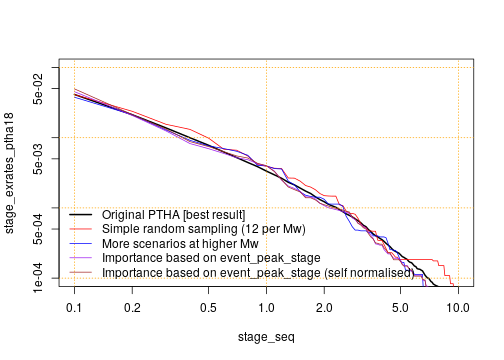
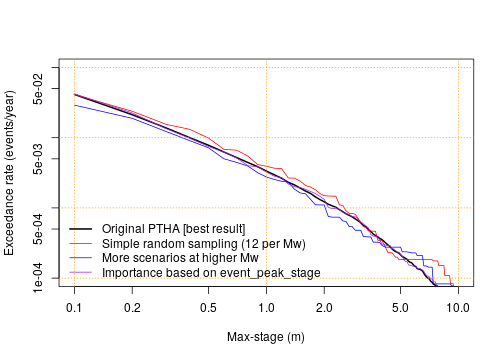
tutorial updates

diff --git a/ptha_access/example_event_access_scripts/random_scenario_sampling/random_scenario_sampling.md b/ptha_access/example_event_access_scripts/random_scenario_sampling/random_scenario_sampling.md
@@ -63,7 +63,10 @@ Our simplest random scenario sampling algorithm proceeds as follows
 * Group the scenarios by magnitude
 * For each magnitude, sample a given number of scenarios with replacement, with the chance of sampling each scenario proportional to its conditional probability.
 
-The function which does this only requires knowledge of the scenario magnitudes, and the scenario rates. From these variables the function will internally compute scenario conditional probability for each unique magnitude value (which ranges from 7.2, 7.3, ... 9.6, 9.7, 9.8 in PTHA18). We also need to specify the number of scenarios to sample for each magnitude - herein a constant (12) is used, although in general it can vary with magnitude.
+The function which does this only requires knowledge of the scenario magnitudes, and the scenario rates. From these variables the function will internally compute scenario conditional probability for each unique magnitude value (which ranges from 7.2, 7.3, ... 9.6, 9.7, 9.8 in PTHA18). 
+
+We also need to specify the number of scenarios to sample for each magnitude - herein a constant (12) is used, although in general it can vary with magnitude.
+
 
 ```r
 # Convenient shorthand for the magnitudes and rates in the event table
@@ -191,8 +194,9 @@ table(random_scenarios_simple$mw)
 ----------------------------------------------------------------------
 
 What do we mean by saying the random scenarios are statistically consistent
-with the PTHA18? Here we explain this by considering the tsunami max-stage
-exceedance-rates at the point offshore of Tonga.
+with the PTHA18? To demonstrate this we considering the tsunami max-stage
+exceedance-rates at the point offshore of Tonga (any other location could
+similarly be chosen).
 
 In the full PTHA, we can compute the max-stage exceedance rates at this point as:
 
@@ -204,7 +208,7 @@ stage_exrates_ptha18 = sapply(stage_seq, f<-function(x) sum(event_rates*(event_p
 The analogous calculation using only the random sample is:
 
 ```r
-stage_exrates_random_scenarios_simple = sapply(stage_seq, 
+stage_exrates_rs_simple = sapply(stage_seq, 
     f<-function(x){
         sum(random_scenarios_simple$importance_sampling_scenario_rates * 
             (event_peak_stage[random_scenarios_simple$inds] > x), na.rm=TRUE)
@@ -212,9 +216,10 @@ stage_exrates_random_scenarios_simple = sapply(stage_seq,
 ```
 
 The max-stage exceedance-rate curve derived from the random scenarios is
-similar to the PTHA18 result, but there is some error due to the limited number of
-samples. If we increased the number of random scenarios per magnitude from 12
-to something larger, the accuracy would improve. 
+similar to the PTHA18 result, but there is some error due to the limited number
+of samples. As we increase the number of random scenarios per magnitude, the
+accuracy will improve (on average) until the difference is negligible. In this
+sense the random sample is statistically consistent with the PTHA18.
 
 ```r
 # Plot it
@@ -228,7 +233,7 @@ plot(stage_seq, stage_exrates_ptha18, log='xy', t='o', xlim=c(0.1, 10), ylim=c(1
 ```
 
 ```r
-points(stage_seq, stage_exrates_random_scenarios_simple, t='l', col='red')
+points(stage_seq, stage_exrates_rs_simple, t='l', col='red')
 grid(col='orange')
 legend('bottomleft', c('Original PTHA18 [desired result]', 'Random scenarios (simple)'),
        col=c('black', 'red'), lty=c(1, 1), pch=c(1, NA))
@@ -236,12 +241,56 @@ legend('bottomleft', c('Original PTHA18 [desired result]', 'Random scenarios (si
 
 ![plot of chunk ptha18_tonga_point_plot1](figure/ptha18_tonga_point_plot1-1.png)
 
-Although in this case we could just use the full PTHA18 results, in other
-situations we might be interested in the tsunami behaviour away from PTHA18
-output points - for instance at an onshore site of interest. In that case we need to
-re-simulate the tsunami for every scenario with a relatively costly inundation
-model. While this is likely computationally prohibitive for the full set of
-PTHA18 scenarios, it may be feasible for a random subset of scenarios.
+Below we demonstrate that with more samples, the agreement between the curves
+improves. 
+
+```r
+# Make the random scenarios -- use 120 per magnitude, instead of 12
+random_scenarios_simple_many = ptha18$randomly_sample_scenarios_by_Mw_and_rate(
+    event_rates=event_rates,
+    event_Mw=event_Mw,
+    samples_per_Mw=function(Mw){ 120 }, # Number of samples for each Mw
+    mw_limits=c(7.15, 9.85) # Optionally limit the mw range of random samples
+    )
+
+# Compute the max-stage exceedance-rates and make a plot
+stage_exrates_rs_simple_many = sapply(stage_seq, 
+    f<-function(x){
+        sum(random_scenarios_simple_many$importance_sampling_scenario_rates * 
+            (event_peak_stage[random_scenarios_simple_many$inds] > x), na.rm=TRUE)
+    })
+
+plot(stage_seq, stage_exrates_ptha18, log='xy', t='o', xlim=c(0.1, 10), ylim=c(1e-04, 1e-01),
+     xlab='Max-stage (m)', ylab='Exceedance rate (events/year)')
+```
+
+```
+## Warning in xy.coords(x, y, xlabel, ylabel, log): 4 y values <= 0 omitted from
+## logarithmic plot
+```
+
+```r
+points(stage_seq, stage_exrates_rs_simple, t='l', col='red')
+points(stage_seq, stage_exrates_rs_simple_many, t='l', col='green')
+grid(col='orange')
+legend('bottomleft', c('Original PTHA18 [desired result]', 'Random scenarios (simple)',
+       'Random scenarios (simple, 120 per Mw)'),
+       col=c('black', 'red', 'green'), lty=c(1, 1, 1), pch=c(1, NA, NA))
+```
+
+![plot of chunk ptha18_tonga_point_plot1_moresam](figure/ptha18_tonga_point_plot1_moresam-1.png)
+
+Here we are considering the max-stage exceedance-rates at a hazard point, and
+can easily use the full PTHA18 results, so there is no reason to use random
+sampling of scenarios. However in other situations we might be interested in
+the tsunami behaviour away from PTHA18 output points. For instance we might
+have an onshore site of interest, so we need to re-simulate the tsunami for
+every scenario with a relatively costly inundation model. While this is likely
+computationally prohibitive for the full set of PTHA18 scenarios, it may be
+feasible for a random subset of scenarios (so long as sufficiently many
+scenarios are sampled).
+
+
 
 ## Random scenario sampling, with more scenarios at magnitudes of interest
 --------------------------------------------------------------------------
@@ -260,7 +309,7 @@ random_scenarios_mw_weighted = ptha18$randomly_sample_scenarios_by_Mw_and_rate(
     )
 
 # Compute the max-stage exceedance-rates
-stage_exrates_random_scenarios_mw_weighted = sapply(stage_seq, 
+stage_exrates_rs_mw_weighted = sapply(stage_seq, 
     f<-function(x){
         sum(random_scenarios_mw_weighted$importance_sampling_scenario_rates * 
             (event_peak_stage[random_scenarios_mw_weighted$inds] > x), na.rm=TRUE)
@@ -269,6 +318,27 @@ stage_exrates_random_scenarios_mw_weighted = sapply(stage_seq,
 
 This one is not that much better in terms of the concentration at higher max-stage
 values.
+
+
+```r
+# Plot it
+plot(stage_seq, stage_exrates_ptha18, log='xy', t='o', xlim=c(0.1, 10), ylim=c(1e-04, 1e-01),
+     xlab='Max-stage (m)', ylab='Exceedance rate (events/year)')
+```
+
+```
+## Warning in xy.coords(x, y, xlabel, ylabel, log): 4 y values <= 0 omitted from
+## logarithmic plot
+```
+
+```r
+points(stage_seq, stage_exrates_rs_mw_weighted, t='l', col='blue')
+grid(col='orange')
+legend('bottomleft', c('Original PTHA18 [desired result]', 'More scenarios at higher Mw'),
+       col=c('black', 'blue'), lty=c(1, 1), pch=c(1, NA))
+```
+
+![plot of chunk ptha18_tonga_point_plot2](figure/ptha18_tonga_point_plot2-1.png)
 
 ## Random scenario sampling, using importance sampling to emphasise higher max-stages
 -------------------------------------------------------------------------------------
@@ -286,20 +356,34 @@ random_scenarios_stage_mw_weighted = ptha18$randomly_sample_scenarios_by_Mw_and_
     )
 
 # Compute the max-stage exceedance-rates
-stage_exrates_random_scenarios_stage_mw_weighted = sapply(stage_seq, 
+stage_exrates_rs_stage_mw_weighted = sapply(stage_seq, 
     f<-function(x){
         sum(random_scenarios_stage_mw_weighted$importance_sampling_scenario_rates * 
             (event_peak_stage[random_scenarios_stage_mw_weighted$inds] > x), na.rm=TRUE)
     })
-
-# As above, using the "self-normalised" importance sampling rates, which are now
-# different to the regular importance-sampling rates
-stage_exrates_random_scenarios_stage_mw_weighted_B = sapply(stage_seq, 
-    f<-function(x){
-        sum(random_scenarios_stage_mw_weighted$importance_sampling_scenario_rates_self_normalised * 
-            (event_peak_stage[random_scenarios_stage_mw_weighted$inds] > x), na.rm=TRUE)
-    })
 ```
+
+
+```r
+# Plot it
+plot(stage_seq, stage_exrates_ptha18, log='xy', t='o', xlim=c(0.1, 10), ylim=c(1e-04, 1e-01),
+     xlab='Max-stage (m)', ylab='Exceedance rate (events/year)')
+```
+
+```
+## Warning in xy.coords(x, y, xlabel, ylabel, log): 4 y values <= 0 omitted from
+## logarithmic plot
+```
+
+```r
+points(stage_seq, stage_exrates_rs_stage_mw_weighted, t='l', col='purple')
+grid(col='orange')
+legend('bottomleft', c('Original PTHA18 [desired result]', 'Importance based on event_peak_stage'),
+       col=c('black', 'purple'), lty=c(1, 1), pch=c(1, NA))
+```
+
+![plot of chunk ptha18_tonga_point_plot3](figure/ptha18_tonga_point_plot3-1.png)
+
 
 ## Comparison of all approaches
 -------------------------------
@@ -311,7 +395,8 @@ and randomisation tests.
 
 ```r
 # Plot it
-plot(stage_seq, stage_exrates_ptha18, log='xy', t='l', lwd=2, xlim=c(0.1, 10), ylim=c(1e-04, 1e-01)) 
+plot(stage_seq, stage_exrates_ptha18, log='xy', t='l', lwd=2, xlim=c(0.1, 10), ylim=c(1e-04, 1e-01),
+     xlab='Max-stage (m)', ylab='Exceedance rate (events/year)')
 ```
 
 ```
@@ -320,15 +405,13 @@ plot(stage_seq, stage_exrates_ptha18, log='xy', t='l', lwd=2, xlim=c(0.1, 10), y
 ```
 
 ```r
-points(stage_seq, stage_exrates_random_scenarios_simple, t='l', col='red')
-points(stage_seq, stage_exrates_random_scenarios_mw_weighted, t='l', col='blue')
-points(stage_seq, stage_exrates_random_scenarios_stage_mw_weighted, t='l', col='purple')
-points(stage_seq, stage_exrates_random_scenarios_stage_mw_weighted_B, t='l', col='brown')
+points(stage_seq, stage_exrates_rs_simple, t='l', col='red')
+points(stage_seq, stage_exrates_rs_mw_weighted, t='l', col='blue')
+points(stage_seq, stage_exrates_rs_stage_mw_weighted, t='l', col='purple')
 grid(col='orange')
 legend('bottomleft', c('Original PTHA [best result]', 'Simple random sampling (12 per Mw)', 
-    'More scenarios at higher Mw', 'Importance based on event_peak_stage', 
-    'Importance based on event_peak_stage (self normalised)'), bty='n', 
-    col=c('black', 'red', 'blue', 'purple', 'brown'), lwd = c(2, 1, 1, 1, 1))
+    'More scenarios at higher Mw', 'Importance based on event_peak_stage'), 
+    bty='n',  col=c('black', 'red', 'blue', 'purple'), lwd = c(2, 1, 1, 1))
 ```
 
 ![plot of chunk compareAllApproaches](figure/compareAllApproaches-1.png)
